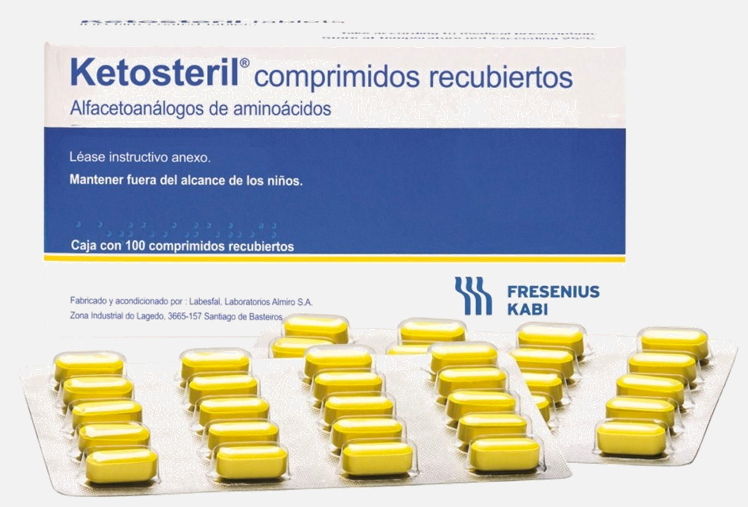
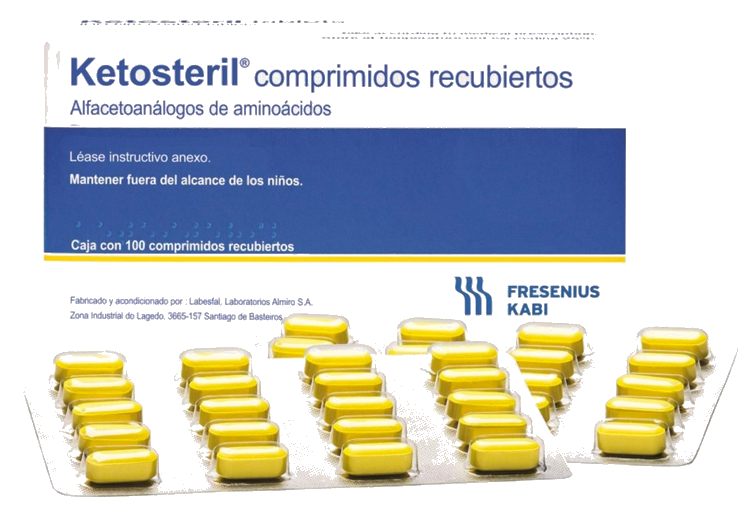
Quitar fondo caja Ketosteril e integrar material MKT en sección ¿Qué incluye?

diff --git a/index.html b/index.html
@@ -296,10 +296,16 @@
       </div>
     </div>
 
-    <div class="flex items-center justify-center">
+    <div class="flex flex-col items-center gap-6">
       <img src="assets/caja-ketosteril.png"
            alt="Caja del producto Ketosteril®"
-           class="max-w-sm w-full h-auto">
+           class="max-w-xs w-full h-auto drop-shadow-md">
+      <div class="w-full rounded-2xl overflow-hidden shadow-md border border-fk-blue-mist">
+        <img src="assets/material-mkt.png"
+             alt="Material educativo y de apoyo Ketosteril®"
+             class="w-full h-auto object-cover">
+        <p class="text-center text-xs text-ink-500 bg-fk-blue-mist/60 py-2 font-medium tracking-wide">Material educativo incluido en el programa</p>
+      </div>
     </div>
   </div>
 </section>